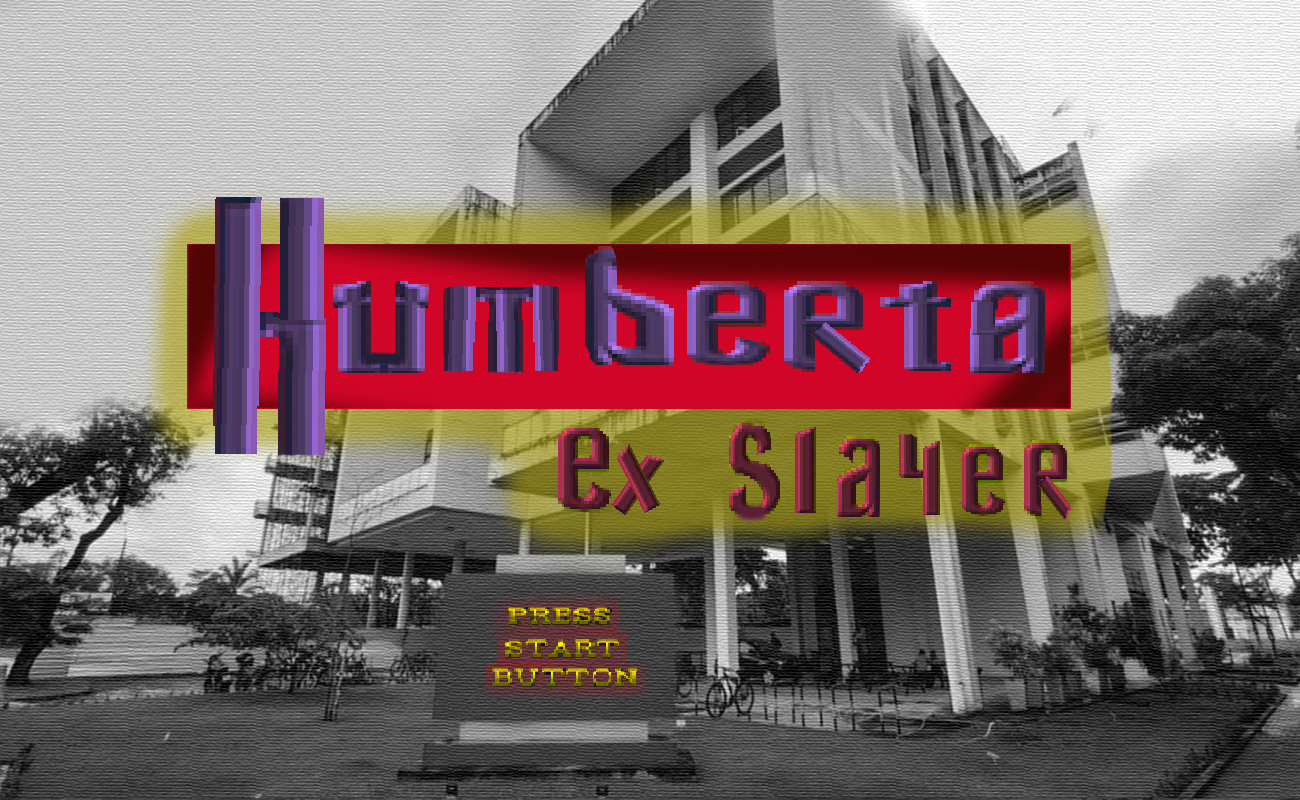
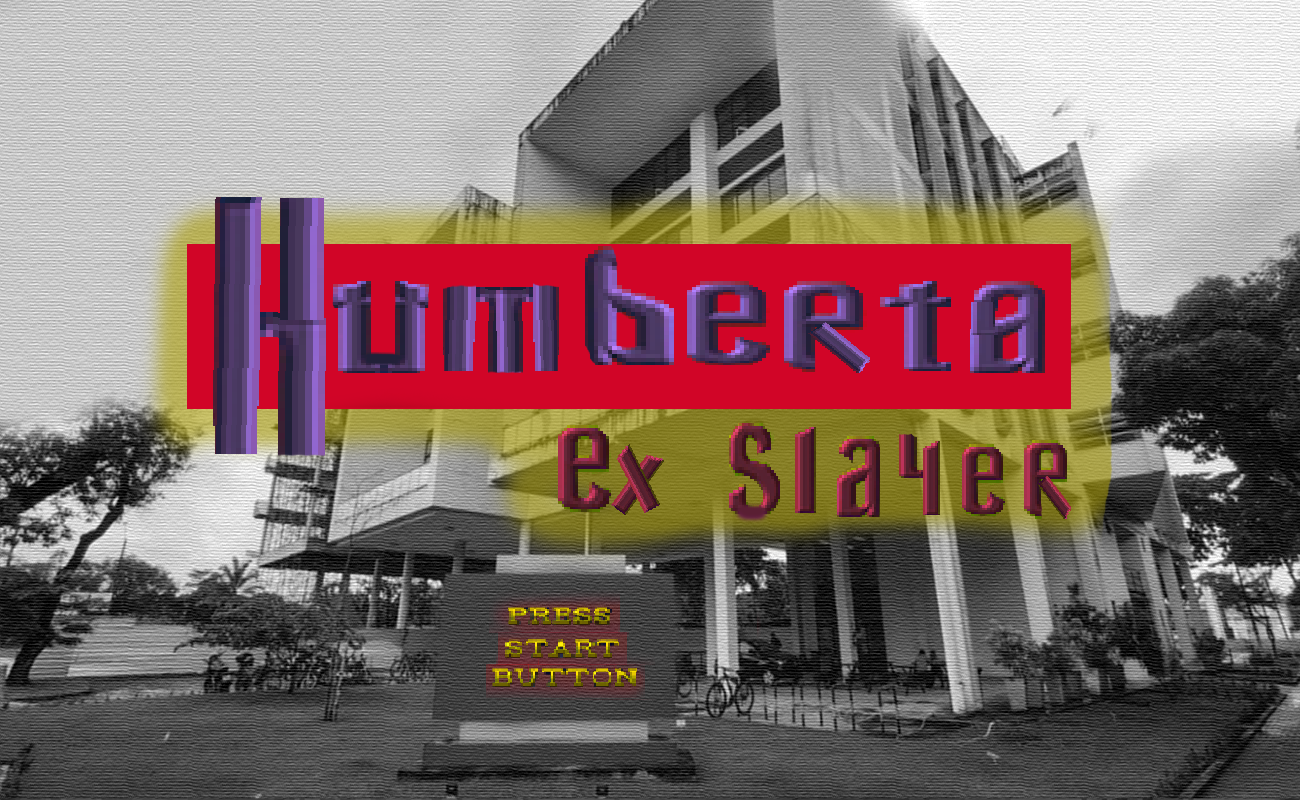
Escrevi no código

Changed region(s): [[0.2462, 0.2812, 0.8308, 0.5312], [0.1231, 0.2812, 0.2154, 0.5312], [0.2462, 0.5, 0.2769, 0.5312]]

diff --git a/game.py b/game.py
@@ -38,7 +38,7 @@ class Game:
 
         self.msg = pygame.transform.scale(pygame.image.load('Assets/mensagem_inicial.png'), (1500, 512))
 
-        self.tela_menu = pygame.transform.scale(pygame.image.load('Assets/teste.png'), (cst.SCREEN_WIDTH, cst.SCREEN_HEIGHT))
+        self.tela_menu = pygame.transform.scale(pygame.image.load('Assets/Tela-menu.png'), (cst.SCREEN_WIDTH, cst.SCREEN_HEIGHT))
 
         self.tela_tutorial = pygame.transform.scale(pygame.image.load('Assets/Tela tutorial.png'), (cst.SCREEN_WIDTH, cst.SCREEN_HEIGHT))
 